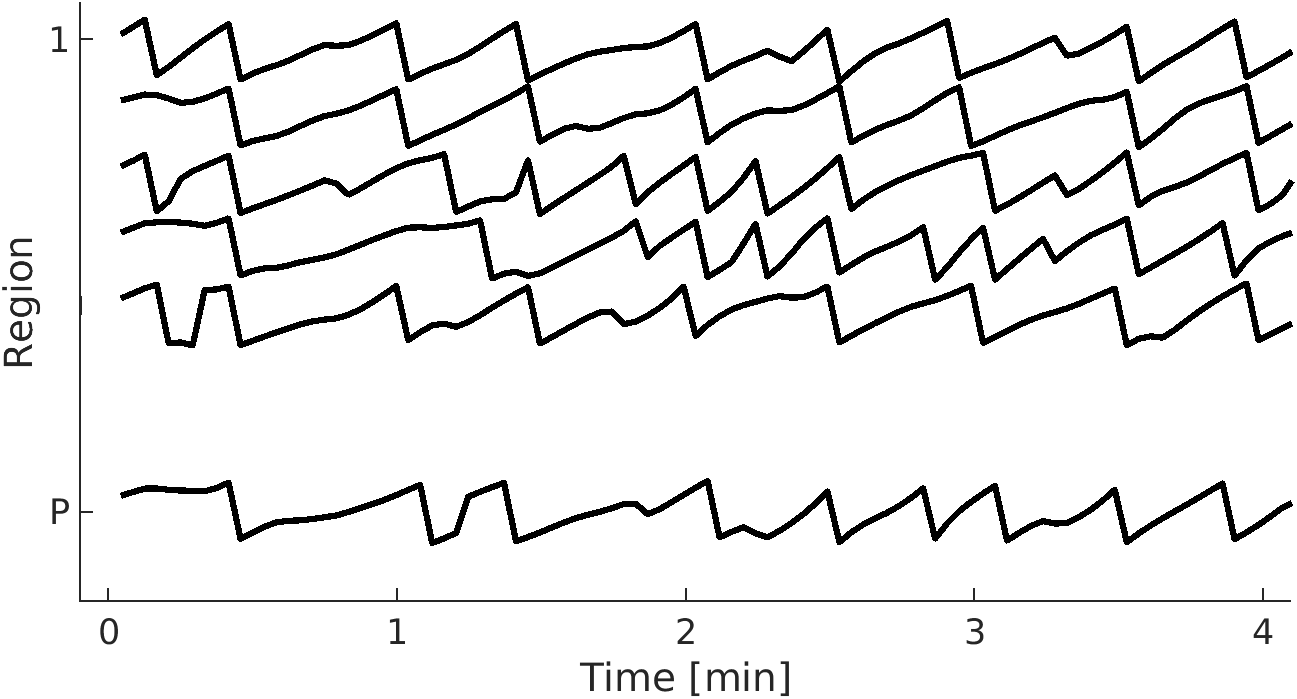
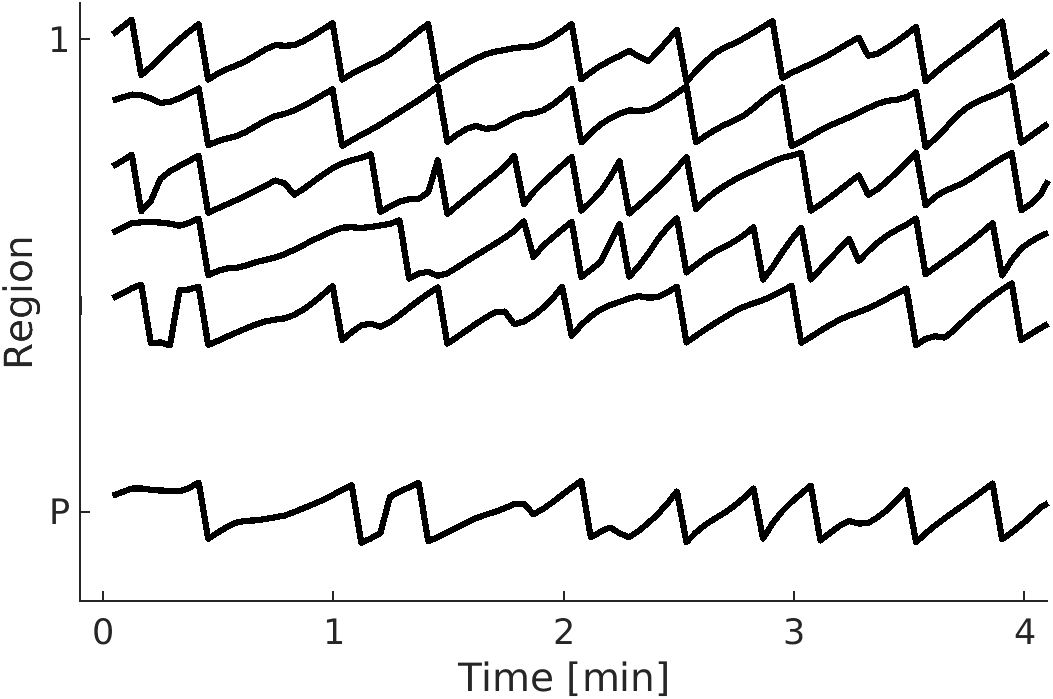
v

diff --git a/src/visualization/methodsfigure.m b/src/visualization/methodsfigure.m
@@ -36,7 +36,7 @@ V_filt_norm = normc(V_filt);
 t_fMRI = TR:TR:TR*size(V_atlas,1);
 V_subs5 = V_filt_norm(:,1:9);
 V_subs5(:,2:4) = nan;
-figure('Position',[50,50,500,350])
+figure('Position',[50,50,400,350])
 tiledlayout(7,1)
 nexttile(1,[5,1])
 plot(t_fMRI/60,V_subs5(1:numel(t_fMRI),:)+0.05*[-5,0,0,0,4:3:18],'k-','LineWidth',1.5)
@@ -60,7 +60,7 @@ exportgraphics(gcf,[ff,'methods_ts_fMRI.png'],'Resolution',300,'BackgroundColor'
 t_fMRI = TR:TR:TR*size(V_atlas,1);
 V_subs5 = V_phase(:,1:9);
 V_subs5(:,2:4) = nan;
-figure('Position',[50,50,500,350])
+figure('Position',[50,50,400,350])
 tiledlayout(7,1)
 nexttile(1,[5,1])
 plot(t_fMRI/60,V_subs5(1:numel(t_fMRI),:)+2.2*[-5,0,0,0,4:3:18],'k-','LineWidth',1.5)
